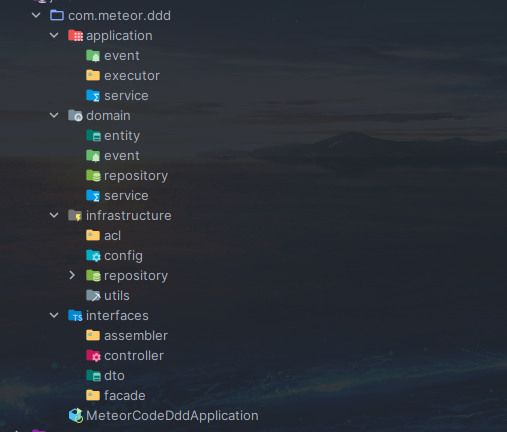
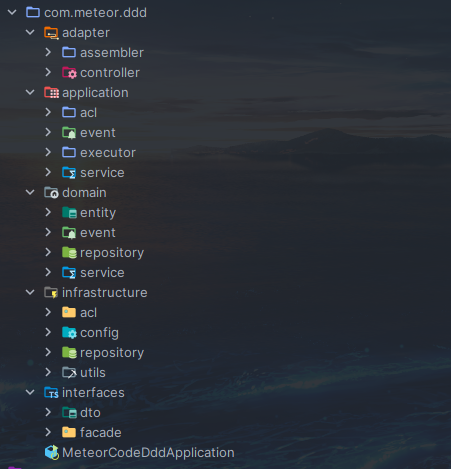
优化

Changed region(s): [[0.031, 0.0, 0.5277, 0.9931], [0.0, 0.9931, 0.0931, 1.0]]

diff --git a/zh-cn/ddd/code-structure.md b/zh-cn/ddd/code-structure.md
@@ -20,13 +20,20 @@
 <center><b><font size='2'>三层架构与DDD四层架构的比较和关系</font></b></center>
 
 ## 代码模型
+![微服务的服务调用关系](../../image/05-ddd代码结构.png)
 - **interfaces** (用户接口层)
+  > 与适配层同属一层，但是为了其它微服务使用，提高代码复用效率，可单独抽成一个api模块使用；为适配层和应用层提供数据服务
+  - **dto**：前端运用数据载体，不实现任何业务逻辑。
+  - **facade**：封装应用服务，提供较粗粒度的调用接口。
+
+- **adapter** (适配层)
   
-  - **assembler**: &nbsp;实现DTO和DO领域对象之间的相互转换和数据转换。
-  - **dto**: &nbsp;前端运用数据载体，不实现任何业务逻辑。
-  - **facade**: &nbsp;封装应用服务，提供较粗粒度的调用接口。
+  - **assembler**：实现DTO和DO领域对象之间的相互转换和数据转换。
+  - **controller**：控制层，实现对web、api接口的实现
   
 - **application** (应用层)
+
+  - **acl**：防腐接口层，接入其它微服务接口，实现在基础设施层
 
   - **event**：事件
     - **publish**： 事件发布。
@@ -45,7 +52,7 @@
   
 - **infrastructure** (基础层)
   - **config**：存放配置相关的代码
-  - **acl**：防腐层，接入其他微服务代码
+  - **acl**：防腐实现层，接入其他微服务代码
   - **util**：存放平台、开发框架、消息、数据库、缓存、文件、总线、网关、第三方类库和通用算法的基础代码。
   - **repository**: 仓储层
     - **impl**: 领域层仓储实现
@@ -60,4 +67,4 @@
 <center><b><font size='2'>微服务的服务封装和组合方式</font></b></center>
 
 ## 代码详解
-![微服务的服务调用关系](../../image/05-ddd代码结构.png)
+<https://github.com/dream-colors/meteor-code-ddd/tree/master/src/main/java/com/meteor/ddd>
